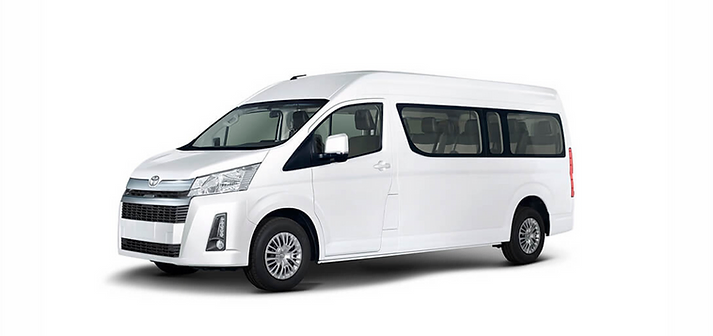
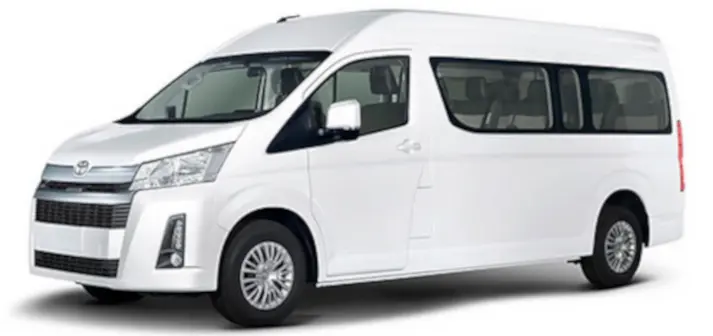
vehicles img optimized

diff --git a/resources/views/pages/home.blade.php b/resources/views/pages/home.blade.php
@@ -12,8 +12,14 @@
             background-position-y: 40%;
         }
         .vehicles_home img{
-            height: 200px;
+            max-height: 200px;
             width: auto!important;
+        }
+        @media(max-width:1024px){
+            .vehicles_home img{
+                max-height: 200px;
+                width: 100%!important;
+            }
         }
         .vehicles_home .row>div{
             text-align: center;
@@ -86,7 +92,7 @@
             </div>
             <div class="col-md-4">
                 <h1 class="text-center fs-1 m-font m-color">Bus</h1>
-                <img src="{{ asset('assets/images/units/bus.png') }}">
+                <img src="{{ asset('assets/images/units/bus.webp') }}">
             </div>
         </div>
         <div class="row">
